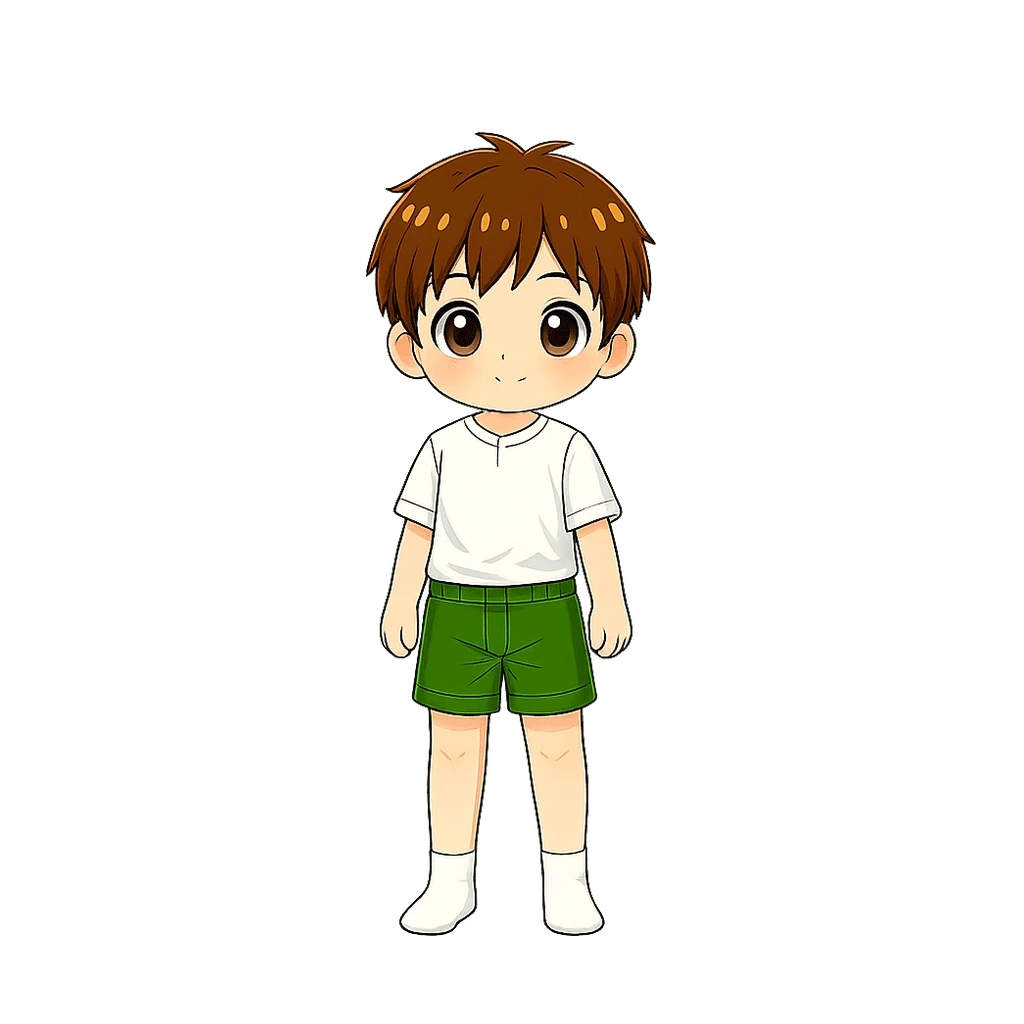
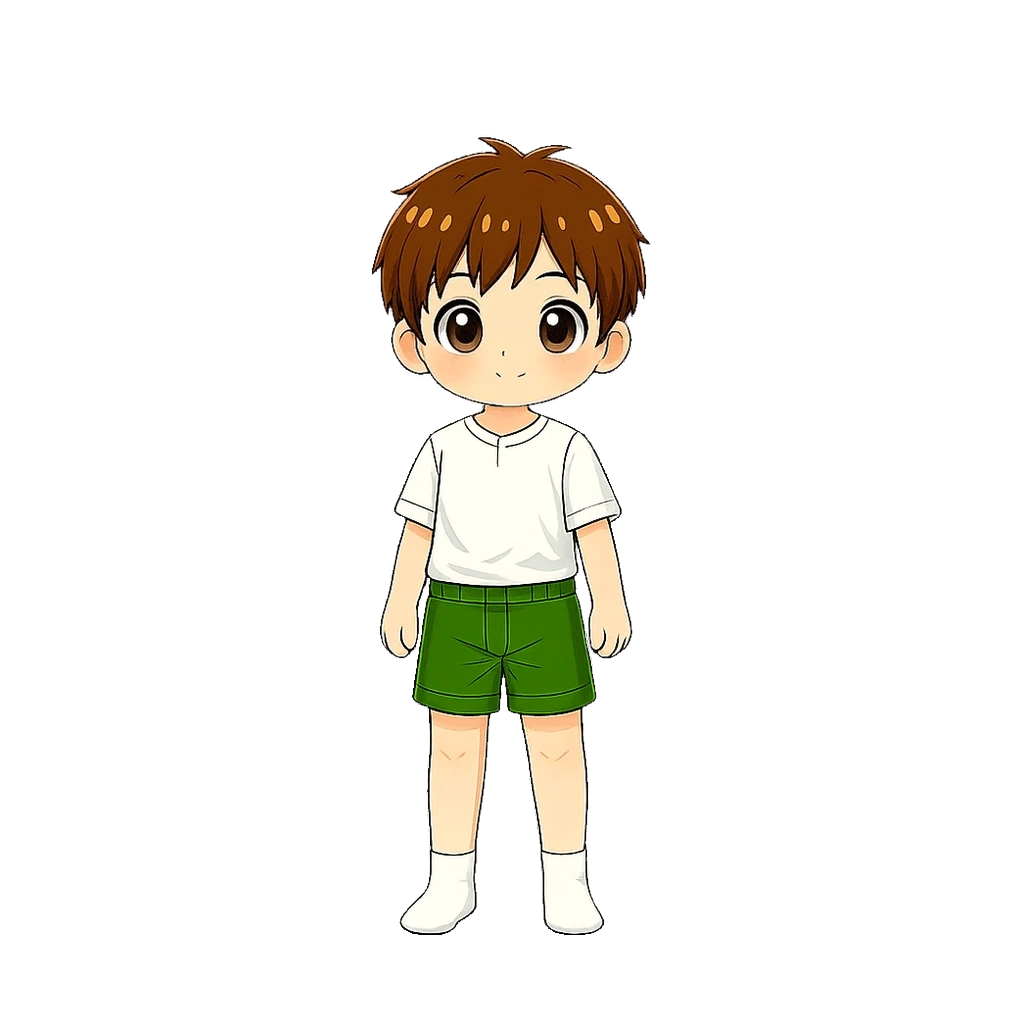
fix: 남아 기본 아바타 다듬기 — 머리 축소·목 노출·흰 테두리 제거
여아는 그대로 두고 남아만 손봤다.

1) 어깨보다 머리가 커 얹혀 보이던 문제
   머리를 0.965배로 줄였다(턱끝 y411·목중심 x506 고정). 머리 폭 291→278.
   몸통을 가로로 늘리는 방법은 쓰지 않았다 — 하의·신발·배낭이 전부 몸통 기준으로
   맞춰져 있고, 그 에셋들은 남녀 공용이라 남아 몸통만 넓히면 여아 쪽 정렬이 깨진다.

2) 목이 거의 안 보이던 문제
   머리를 5px 위로 올렸다. 턱끝 411→407, 몸통 목 위끝이 404라 3px 겹쳐
   목의 잘린 윗부분은 여전히 가려진다.

3) 어깨·팔 바깥선의 흰 테두리(halo)
   배경 제거 때 남은 '밝고 반투명한' 가장자리 픽셀이 원인이었다.
   0<alpha<248 이면서 밝기>205 인 픽셀이 머리 1158개·몸통 2534개.
   알파에 3×3 최소필터(1px 침식)를 먹여 210개·484개로 줄였다.
   여아는 하드 알파라 이런 픽셀이 0개 — 원래 깨끗해서 손댈 필요가 없었다.

4) 선 굵기
   실루엣 외곽선은 머리·몸통 모두 3px로 원래 같았다. 몸 선이 얇아 보이던 건
   halo가 외곽선을 흐리게 만든 착시였고, 3)을 고치니 함께 해결됐다.
   다만 옷 주름 음영은 원화가 평면적이라 이미지 처리로는 못 채운다(원화 필요).

합본 폴백(default.webp)도 갱신. 실제 앱을 3배 해상도로 띄워 확인, vite build 통과.

Claude-Session: https://claude.ai/code/session_018maNuYqDfFyRSe9uKpZhPR

Changed region(s): [[0.3438, 0.125, 0.6562, 0.4062]]

diff --git a/art-src/README.md b/art-src/README.md
@@ -63,8 +63,17 @@ IoU 최적값은 끈이 짧아진다 — 끈 길이를 기준으로 272×199 @38
 **틈이 0이어도 부족하다(중요)** — 몸통 장의 목은 위쪽이 뭉툭하게 잘려 있어서, 턱 아치가 그 잘린
 자리에 '겨우 닿기만' 하면 양옆에 턱이 진 것처럼 보이고 머리가 붙여 놓은 것처럼 뜬다.
 턱 아치가 목의 잘린 윗부분을 **덮을 만큼** 더 내려야 목 외곽선이 턱선에서 자연스럽게 이어진다.
-현행 확정값 — **남아 머리 +9px · 여아 머리 +5px 추가로 내림**(목 열에서 4px·1px 겹침).
-전신 bbox: 남아 y131~935 / 여아 y129~936. 판단은 목 부분을 4배 확대해 v2 원본과 비교해서 했다.
+현행 확정값 — 여아 머리는 +5px 내려 확정(전신 y129~936).
+남아는 이후 별도 조정 — 머리 0.965배 축소(턱끝 y411·목중심 x506 고정) 후 5px 위로,
+전신 y137~934 · 머리 폭 291→278. 판단은 목 부분을 4~6배 확대해 v2 원본과 비교해서 했다.
+
+**흰 테두리(halo) 제거 — 알파 1px 침식**: 배경 제거 때 가장자리에 '밝고 반투명한' 픽셀이
+남으면 배경 위에서 흰 실선처럼 도드라진다. 진단은 `0<alpha<248` 이면서 밝기>205 인 픽셀 수로
+한다 — 남아는 머리 1158개·몸통 2534개나 있었고, 여아는 0개(하드 알파)라 원래 깨끗했다.
+고치는 법은 알파에 3×3 최소필터(1px 침식)를 한 번 먹이는 것. 남아 기준 밝은 반투명이
+1158→210 / 2534→484 로 줄고 팔·어깨 바깥선의 흰 점선이 사라진다.
+실루엣 외곽선 두께는 머리·몸통 모두 3px로 원래 같았다 — '몸 선이 얇아 보이던' 건
+halo가 외곽선을 흐려서 생긴 착시였다.
 (옛 방식 기록 — 머리 장을 안 그리기 전에는 얼굴 덮는 장비를 '베이스 윤곽선이 안 삐져나오는
 최소 배율'로 키워야 했다. 지금은 머리를 아예 안 그리므로 그런 여유가 필요 없고,
 턱 끝·얼굴폭만 맞추면 된다.)
